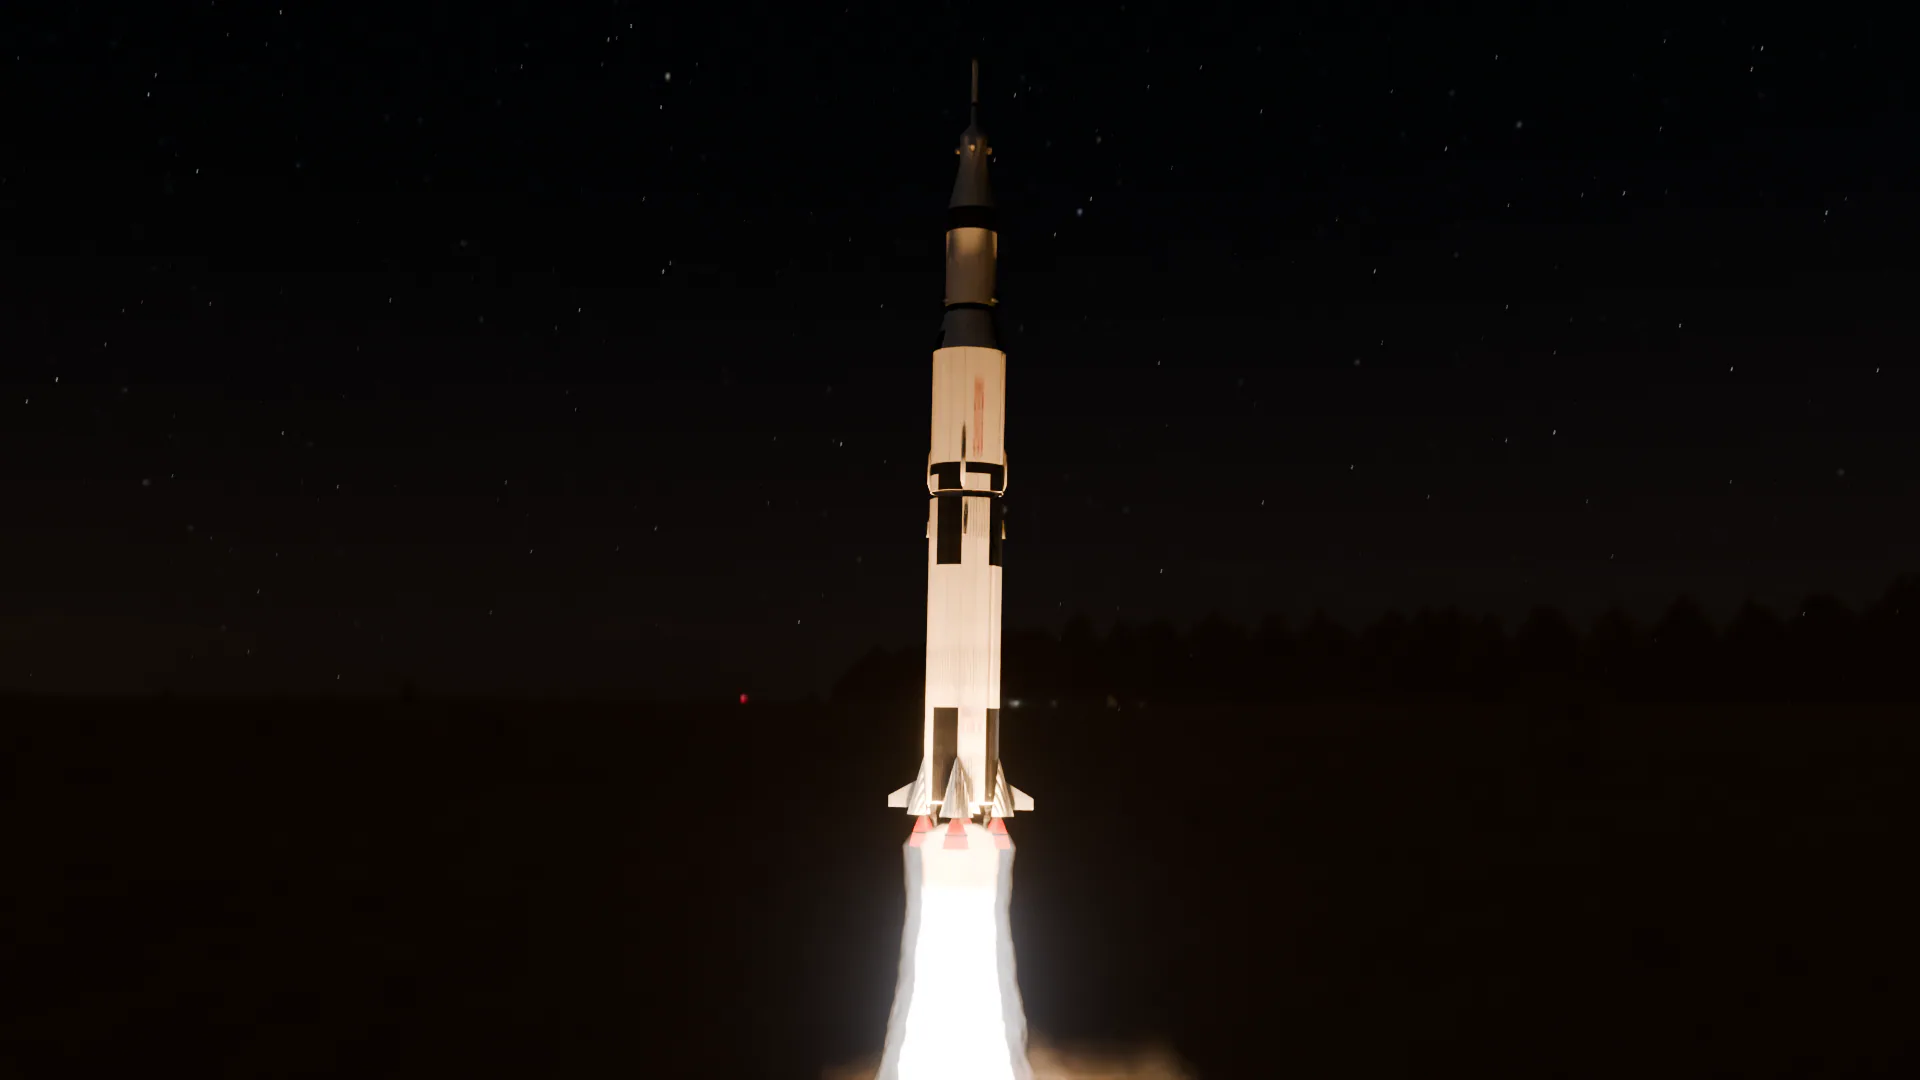
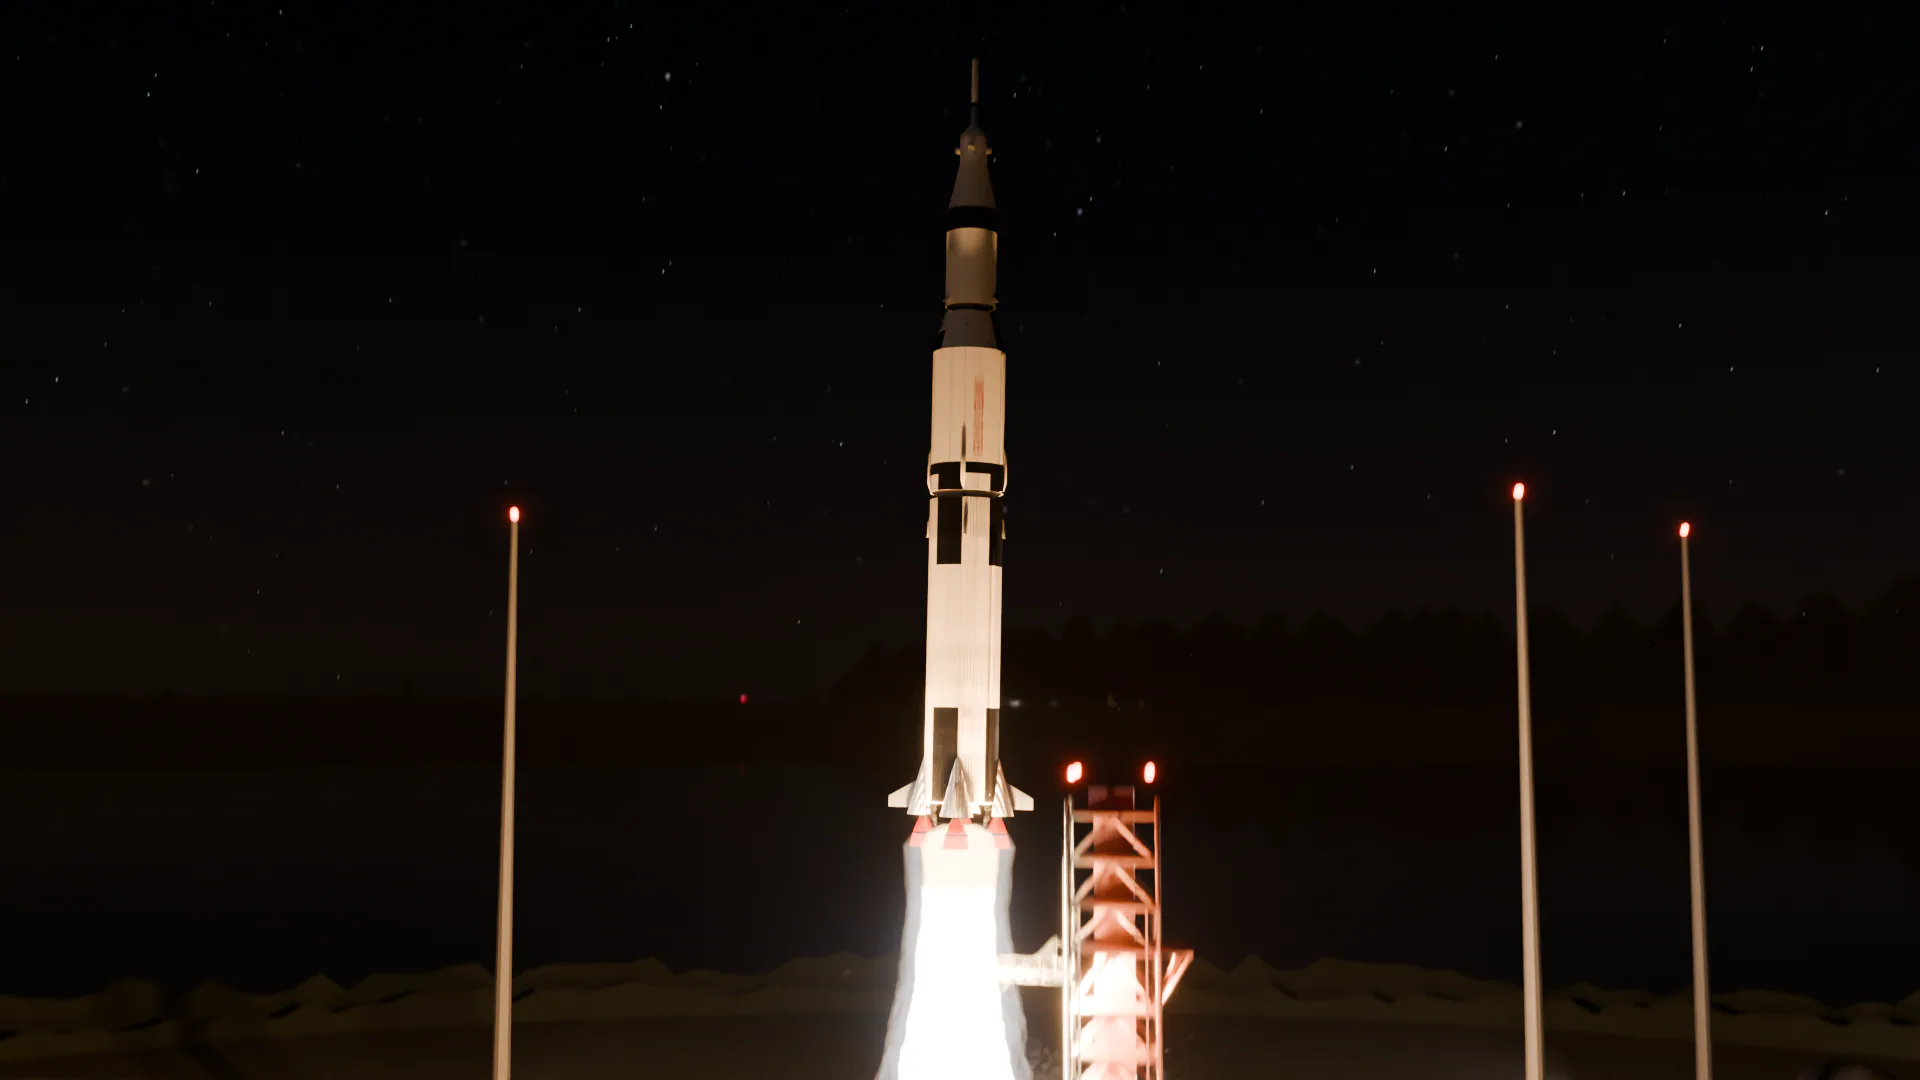
fix: keep the pad in frame until the tower has left the shot
The pad and site props were hidden at frame 203, while the umbilical
tower was still mid-frame, which read as a pop during the climb. The hide
now keys at frame 215, the first frame after the tower drops out of the
bottom of the shot; frames 203-214 (integer and half-step) are re-rendered.
Adds rekey_hide.py to move the key in the cached scene without a rebuild
and render_refresh.sh to bring the overnight frames onto the dense ranges'
shutter.

Claude-Session: https://claude.ai/code/session_01P1TtKtZrisZKNLaNYwfjKA

diff --git a/render/scripts/rekey_hide.py b/render/scripts/rekey_hide.py
@@ -1,0 +1,67 @@
+"""Move the pad/site hide keyframe in the cached scene without a full rebuild.
+
+The baked hide (lib_scene.hide_ground_props, altitude > 0.25 → frame 203) cut the
+tower while it was still mid-frame, a visible pop in the climb. This re-keys
+hide_render/hide_viewport on the same objects to a chosen frame and saves the blend.
+
+  python3 render/scripts/run_blender.py --blend render/cache/launch_final.blend \
+      render/scripts/rekey_hide.py -- --frame 213
+"""
+import sys
+
+import bpy
+
+sys.path.insert(0, "/Users/erisdothard/Syntra-Website/render/scripts")
+from lib_render import script_args  # noqa: E402
+
+KEEP = ("EARTH_LIMB",)
+
+
+def fcurve_collections(action):
+    """Legacy actions expose .fcurves; layered actions (Blender 4.4+) keep them in channelbags."""
+    if hasattr(action, "fcurves"):
+        return [action.fcurves]
+    return [cb.fcurves for layer in action.layers for strip in layer.strips for cb in strip.channelbags]
+
+
+def targets():
+    out = []
+    for cname in ("PAD", "SITE", "LIGHTS"):
+        c = bpy.data.collections.get(cname)
+        if not c:
+            continue
+        for ob in c.all_objects:
+            if ob.name in KEEP or ob.type in ("LIGHT", "CAMERA") or ob.name == "TRENCH":
+                continue
+            out.append(ob)
+    return out
+
+
+def main():
+    a = script_args()
+    opts = {"frame": None}
+    for i in range(0, len(a) - 1, 2):
+        opts[a[i].lstrip("-")] = a[i + 1]
+    if opts["frame"] is None:
+        raise SystemExit("--frame <n> is required")
+    first = int(opts["frame"])
+    obs = targets()
+    for ob in obs:
+        ad = ob.animation_data
+        if ad and ad.action:
+            for coll in fcurve_collections(ad.action):
+                for fc in list(coll):
+                    if fc.data_path in ("hide_render", "hide_viewport"):
+                        coll.remove(fc)
+        for prop in ("hide_render", "hide_viewport"):
+            setattr(ob, prop, False)
+            ob.keyframe_insert(prop, frame=1)
+            setattr(ob, prop, True)
+            ob.keyframe_insert(prop, frame=first)
+            setattr(ob, prop, False)
+    bpy.ops.wm.save_mainfile(filepath=bpy.data.filepath)
+    print(f"[rekey] {len(obs)} pad/site objects now hidden from frame {first}: {', '.join(ob.name for ob in obs)}")
+
+
+if __name__ == "__main__":
+    main()

diff --git a/render/scripts/lib_scene.py b/render/scripts/lib_scene.py
@@ -455,10 +455,14 @@ def animate(vehicle, rig, cam, look, states):
         _linear(ob)
 
 
-def hide_ground_props(states, threshold=0.25, keep=("EARTH_LIMB",)):
-    """Once the sky/limb cheat starts (altitude > threshold) the far ground props and
-    the pad would stand against the Earth limb: key hide_render/hide_viewport on
-    everything in PAD, SITE and the light poles from that frame on."""
+def hide_ground_props(states, threshold=0.64, keep=("EARTH_LIMB",)):
+    """Key hide_render/hide_viewport on everything in PAD, SITE and the light poles
+    from the first frame with altitude > threshold. 0.64 is the first frame (215)
+    after the tower has dropped out of the bottom of the shot; the earlier 0.25
+    (frame 203) cut it while it was still mid-frame, a visible pop in the climb.
+    Between the limb fade-in (~211) and 214 the tower is a sliver at the bottom
+    edge, below the horizon line, so it reads as ground rather than as a prop
+    standing against the Earth limb."""
     first = next(s["frame"] for s in states if s["altitude"] > threshold)
     targets = []
     for cname in ("PAD", "SITE", "LIGHTS"):
